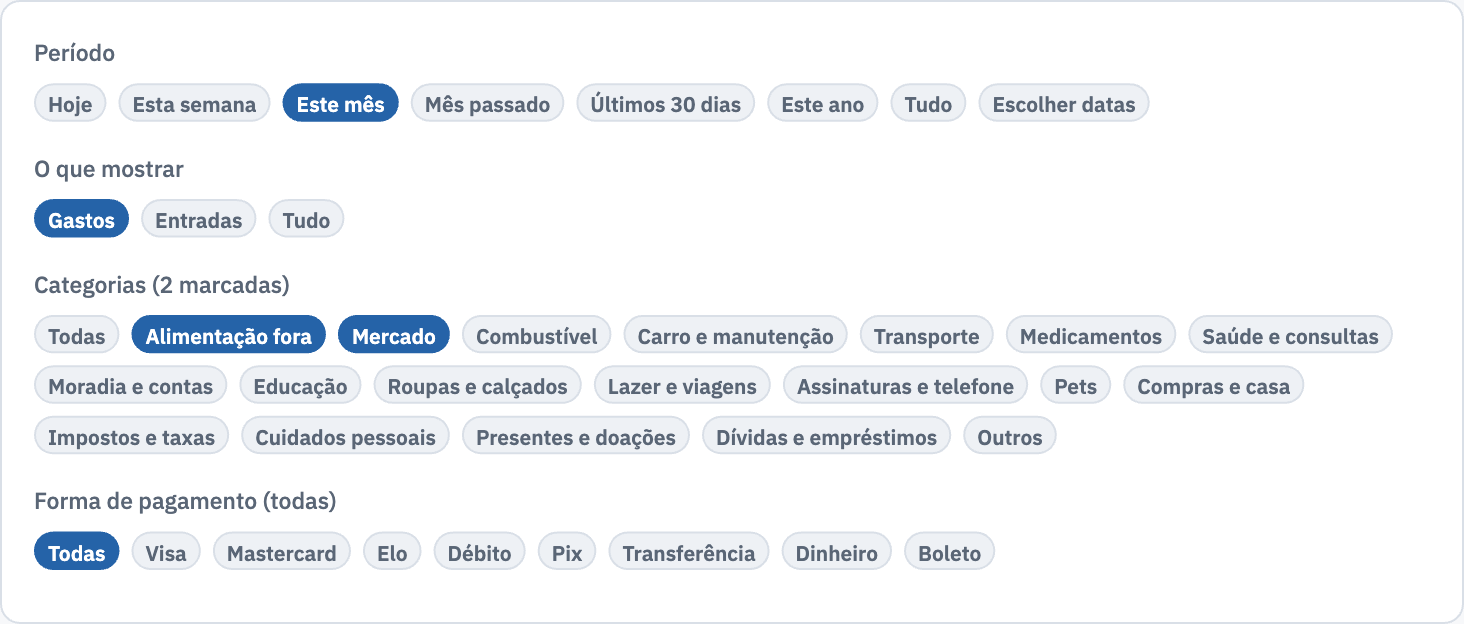
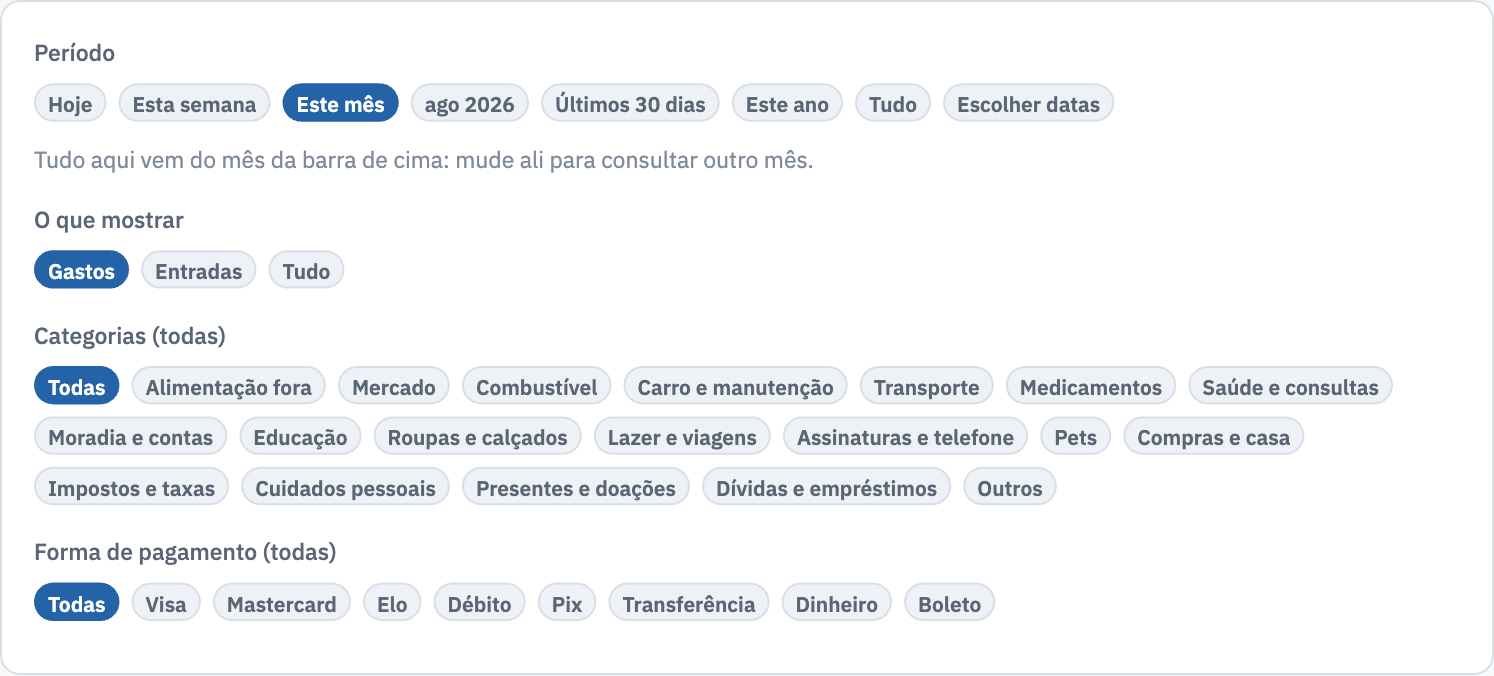
Consulta segue o mês da barra e categorias se reorganizam sem perder nada
A Consulta tirava hoje, esta semana e últimos 30 dias do dia real, mesmo
com outro mês na barra de cima. Agora todos os períodos saem de S.ym:
refDia() é hoje no mês corrente, o último dia num mês passado e o dia 1º
num mês futuro, e os botões mudam de nome para dizer isso.

Mexer nas categorias também ficou seguro: excluir uma categoria com uso
pergunta para onde levar os lançamentos, os gastos fixos e as palavras
aprendidas; divida e outros só podem ser renomeadas; e a Consulta ganhou
Mudar a categoria, que re-etiqueta de uma vez os lançamentos filtrados —
é assim que se divide uma categoria em duas ou três.

Ajuda (3 perguntas novas), manual (seção 20 e figuras novas) e README
atualizados junto.

Changed region(s): [[0.0, 0.0609, 0.9529, 0.7612], [0.0, 0.7917, 0.6762, 0.9439], [0.0307, 0.9744, 0.9836, 1.0]]

diff --git a/index.html b/index.html
@@ -2319,18 +2319,28 @@ function htmlImportacoes(){
 
 /* =================== consulta =================== */
 /* procurar gastos por categoria e período, com data e forma de pagamento em cada linha */
-const PERIODOS=[["hoje","Hoje"],["semana","Esta semana"],["mes","Este mês"],["anterior","Mês passado"],
-  ["30","Últimos 30 dias"],["ano","Este ano"],["tudo","Tudo"],["livre","Escolher datas"]];
+/* "mês" e "mês anterior" seguem o mês que está na barra de cima, como o resto do app */
+/* o dia de referência da Consulta é o mês da barra de cima: hoje, quando o mês é o atual;
+   o último dia do mês, quando é um mês passado; o dia 1º, quando é um mês futuro. */
+const refDia=()=>{ const hoje=todayISO(), atual=ymOf(hoje);
+  if(S.ym===atual) return hoje;
+  return S.ym>atual ? S.ym+"-01" : S.ym+"-"+pad(daysIn(S.ym)); };
+const rotuloPeriodos=()=>{ const hoje=todayISO(), atual=S.ym===ymOf(hoje), ref=diaMes(refDia());
+  return [["hoje",atual?"Hoje":"Dia "+ref],["semana",atual?"Esta semana":"Semana até "+ref],
+    ["mes",atual?"Este mês":ymLabel(S.ym)],["anterior",ymLabel(ymShift(S.ym,-1))],
+    ["30",atual?"Últimos 30 dias":"30 dias até "+ref],
+    ["ano",S.ym.slice(0,4)===hoje.slice(0,4)?"Este ano":S.ym.slice(0,4)],
+    ["tudo","Tudo"],["livre","Escolher datas"]]; };
 function periodoDatas(p){
-  const hoje=todayISO(), Y=+hoje.slice(0,4), M=+hoje.slice(5,7);
-  const dia=n=>new Date(Date.parse(hoje+"T12:00:00")+n*86400000).toISOString().slice(0,10);
-  if(p==="hoje") return [hoje,hoje];
-  if(p==="semana"){ const d=new Date(Date.parse(hoje+"T12:00:00")).getDay(); return [dia(-((d+6)%7)),hoje]; }
-  if(p==="mes") return [ymOf(hoje)+"-01", ymOf(hoje)+"-"+pad(daysIn(ymOf(hoje)))];
-  if(p==="anterior"){ const a=ymShift(ymOf(hoje),-1); return [a+"-01", a+"-"+pad(daysIn(a))]; }
-  if(p==="30") return [dia(-29),hoje];
-  if(p==="ano") return [Y+"-01-01", Y+"-12-31"];
-  if(p==="tudo") return ["2000-01-01", Y+"-12-31"];
+  const hoje=todayISO(), ref=refDia();
+  const dia=n=>new Date(Date.parse(ref+"T12:00:00")+n*86400000).toISOString().slice(0,10);
+  if(p==="hoje") return [ref,ref];
+  if(p==="semana"){ const d=new Date(Date.parse(ref+"T12:00:00")).getDay(); return [dia(-((d+6)%7)),ref]; }
+  if(p==="mes") return [S.ym+"-01", S.ym+"-"+pad(daysIn(S.ym))];
+  if(p==="anterior"){ const a=ymShift(S.ym,-1); return [a+"-01", a+"-"+pad(daysIn(a))]; }
+  if(p==="30") return [dia(-29),ref];
+  if(p==="ano"){ const a=S.ym.slice(0,4); return [a+"-01-01", a+"-12-31"]; }
+  if(p==="tudo") return ["2000-01-01", Math.max(+hoje.slice(0,4),+S.ym.slice(0,4))+"-12-31"];
   return null; }
 function consultaAchados(c){
   c=c||S.consulta;
@@ -2355,6 +2365,16 @@ function renderConsulta(){
   /* nada no período não quer dizer nada no app: diz onde estão os lançamentos que batem com os filtros */
   let dica="";
   if(!L.length){
+    /* o período pode ter movimento e o filtro é que não bate: mostra o que existe ali */
+    const semFiltro=consultaAchados(Object.assign({},c,{cats:[],formas:[]})).linhas;
+    if(semFiltro.length){
+      const cont={}; semFiltro.forEach(t=>{ cont[t.cat]=(cont[t.cat]||0)+t.v; });
+      const quais=Object.keys(cont).sort((a,b)=>cont[b]-cont[a]).slice(0,8)
+        .map(id=>'<button class="mini" data-so="'+id+'" style="margin:2px 4px 2px 0">'+esc(c.tipo==="e"?ecatName(id):catName(id))+' '+fmtN(cont[id])+'</button>').join("");
+      dica='<div class="note" style="margin-top:12px"><b>Nada com os filtros marcados</b>Mas de '+diaMesAno(r.de)+' a '+diaMesAno(r.ate)+
+        ' há '+semFiltro.length+(semFiltro.length>1?" lançamentos":" lançamento")+'. O que existe neste período: '+quais+
+        ' <button class="mini" data-so="" style="margin:2px 0">Ver todos</button></div>'; }
+    else {
     const noAno=consultaAchados(Object.assign({},c,{periodo:"ano"})).linhas.length;
     const emTudo=consultaAchados(Object.assign({},c,{periodo:"tudo"})).linhas.length;
     const quanto=noAno===emTudo
@@ -2365,7 +2385,7 @@ function renderConsulta(){
         '. Veja em outro período: '+
         (noAno?'<button class="mini" data-per="ano" style="margin-right:6px">Este ano</button>':'')+
         '<button class="mini" data-per="tudo">Tudo</button></div>'
-      : '<div class="note" style="margin-top:12px"><b>Nada encontrado</b>Não há lançamentos com esses filtros em nenhum período. Desmarque alguma categoria ou forma de pagamento.</div>'; }
+      : '<div class="note" style="margin-top:12px"><b>Nada encontrado</b>Não há lançamentos com esses filtros em nenhum período. Desmarque alguma categoria ou forma de pagamento.</div>'; } }
   const total=L.reduce((s,t)=>s+(t.k==="e"?-t.v:t.v),0);
   const soma={}, porForma={};
   L.forEach(t=>{ soma[t.cat]=(soma[t.cat]||0)+t.v; const f=t.card||t.method; porForma[f]=(porForma[f]||0)+t.v; });
@@ -2386,7 +2406,11 @@ function renderConsulta(){
   $("#p-consulta").innerHTML=
     '<div class="sec"><div class="card pad">'+
     '<div class="tile-l">Período</div>'+
-    '<div class="segs" style="margin-top:8px">'+PERIODOS.map(p=>selo(c.periodo===p[0],p[1],'data-per="'+p[0]+'"')).join("")+'</div>'+
+    '<div class="segs" style="margin-top:8px">'+rotuloPeriodos().map(p=>selo(c.periodo===p[0],p[1],'data-per="'+p[0]+'"')).join("")+'</div>'+
+    '<div class="say-hint" style="margin-top:6px">'+(S.ym===ymOf(todayISO())
+      ?'Tudo aqui vem do mês da barra de cima: mude ali para consultar outro mês.'
+      :'O mês da barra de cima é '+ymLabel(S.ym)+', então o dia de referência é '+diaMesAno(refDia())+
+       ' — a semana e os 30 dias terminam nele, e o ano é '+S.ym.slice(0,4)+'. Para um período qualquer, use Escolher datas.')+'</div>'+
     (c.periodo==="livre"?'<div class="two" style="margin-top:6px"><div class="set-f"><label for="cqDe">De</label><input id="cqDe" type="date" value="'+c.de+'"></div>'+
       '<div class="set-f"><label for="cqAte">Até</label><input id="cqAte" type="date" value="'+c.ate+'"></div></div>':'')+
     '<div class="tile-l" style="margin-top:14px">O que mostrar</div>'+
@@ -2407,7 +2431,8 @@ function renderConsulta(){
     '<div class="card pad"><div class="tile-l">Por forma de pagamento</div>'+
     (resumoForma?'<div style="margin-top:10px;display:grid;gap:7px;font-size:13px;color:var(--ink-2)">'+resumoForma+'</div>'
       :'<div class="tile-s">Nada no período.</div>')+
-    '<div class="cardbox-a" style="margin-top:14px"><button class="btn ghost sm" id="cqCopiar">Copiar para planilha</button></div>'+
+    '<div class="cardbox-a" style="margin-top:14px"><button class="btn ghost sm" id="cqCopiar">Copiar para planilha</button>'+
+    (L.length&&c.tipo!=="tudo"?'<button class="btn ghost sm" id="cqMover">Mudar a categoria</button>':'')+'</div>'+
     '</div></div></div>'+
 
     '<div class="sec"><div class="sec-h"><h2 class="sec-t">Lançamentos</h2><span class="day-t">'+(L.length?fmt(Math.abs(total)):"")+'</span></div>'+
@@ -2419,6 +2444,8 @@ function renderConsulta(){
   $$("[data-cat]").forEach(b=>b.onclick=()=>{ const id=b.dataset.cat;
     if(!id) c.cats=[]; else { const i=c.cats.indexOf(id); if(i>=0) c.cats.splice(i,1); else c.cats.push(id); }
     renderConsulta(); });
+  $$("[data-so]").forEach(b=>b.onclick=()=>{ const id=b.dataset.so;
+    c.formas=[]; c.cats=id?[id]:[]; renderConsulta(); });
   $$("[data-forma]").forEach(b=>b.onclick=()=>{ const id=b.dataset.forma;
     if(!id) c.formas=[]; else { const i=c.formas.indexOf(id); if(i>=0) c.formas.splice(i,1); else c.formas.push(id); }
     renderConsulta(); });
@@ -2428,7 +2455,8 @@ function renderConsulta(){
   $("#cqCopiar").onclick=()=>{
     const linhas=[["Data","Descrição","Categoria","Forma de pagamento","Valor"]].concat(
       L.map(t=>[t.d, t.desc, catLabel(t), cardName(t.card)||METODOS[t.method]||"", (t.k==="e"?"":"-")+(t.v/100).toFixed(2).replace(".",",")]));
-    copyText(linhas.map(l=>l.join(";")).join("\n"), L.length+" lançamentos copiados. Cole numa planilha."); }; }
+    copyText(linhas.map(l=>l.join(";")).join("\n"), L.length+" lançamentos copiados. Cole numa planilha."); };
+  const mv=$("#cqMover"); if(mv) mv.onclick=()=>openMoverLinhas(L,c.tipo); }
 
 /* =================== ajuda =================== */
 /* o app não tem IA embutida (não há servidor nem chave): a ajuda é busca no próprio conteúdo, e para
@@ -2538,7 +2566,15 @@ const AJUDA=[
  {g:"Entender os números",t:"O que a aba Análises mostra?",
   c:"O diagnóstico do mês (ritmo contra o teto, 50-30-20, renda comprometida, cartões perto do limite, gastos que parecem fixos), as compras parceladas, os gastos por cartão e o acompanhamento das dívidas.",a:"analises"},
  {g:"Entender os números",t:"A Consulta mostrou R$ 0,00",
-  c:"É porque não há lançamentos naquele período com os filtros marcados — por exemplo, a semana atual quando você ainda está carregando meses antigos. O próprio app avisa quantos lançamentos existem no ano e no total, e oferece o atalho para ver em Este ano ou Tudo.",a:"consulta"},
+  c:"É porque não há lançamentos naquele período com os filtros marcados. O app explica qual dos dois é o caso: se o período tem movimento e são as categorias que não batem, ele lista o que existe ali (com o valor de cada categoria) e você toca para ver; se o período está mesmo vazio, ele diz quantos lançamentos existem no ano e no total e oferece o atalho para Este ano ou Tudo.",a:"consulta"},
+ {g:"Entender os números",t:"A Consulta é de qual mês?",
+  c:"Do mês que estiver na barra de cima — o mesmo seletor que comanda o Painel e o Mês. Todos os períodos seguem esse mês: quando ele é o mês atual, hoje é hoje mesmo e a semana é a semana corrente; quando você volta para um mês passado, o dia de referência passa a ser o último dia daquele mês (em fev 2026, 28/02), e os botões mudam de nome para dizer isso — Dia 28/02, Semana até 28/02, 30 dias até 28/02. O ano também é o da barra. Para consultar outro mês, troque ali em cima; para um período que não começa nem termina em mês fechado, use Escolher datas.",a:"consulta"},
+ {g:"No dia a dia",t:"Quero reorganizar as categorias. Vou bagunçar o que já lancei?",
+  c:"Não. Por dentro, cada lançamento está amarrado à categoria por um código, não pelo nome — então renomear é seguro e vale para trás: tudo o que já estava ali passa a aparecer com o nome novo, inclusive nos meses fechados, nos gráficos e no 50-30-20. Criar categoria nova também não mexe em nada (ela nasce vazia). E ao excluir, o app não deixa nada solto: ele conta quantos lançamentos, gastos fixos e palavras aprendidas estão naquela categoria e pede para onde levar tudo, antes de tirá-la da lista. Duas não podem ser excluídas, só renomeadas: Dívidas e empréstimos (o app lança nela sozinho, nos consignados) e Outros (é a reserva de quando ele não sabe classificar).",a:"categorias"},
+ {g:"No dia a dia",t:"Como divido uma categoria em duas ou três?",
+  c:"Em Ajustes, em Categorias, crie as novas (por exemplo Farmácia e Consultas no lugar de Saúde). Vá na aba Consulta, marque só a categoria antiga, escolha o período — Tudo, se quiser desde o começo — e toque em Mudar a categoria: ele troca de uma vez os lançamentos que estão na lista, e só a categoria muda (valor, data e forma de pagamento ficam iguais). Repita com outro período ou outro filtro para a segunda parte; o que for caso a caso, toque na linha e mude ali. No fim, exclua a categoria antiga — se ainda tiver sobrado algo nela, o app pergunta para onde levar. Para juntar duas em uma, é o contrário: exclua uma e mande tudo para a outra.",a:"categorias"},
+ {g:"Dívidas",t:"Financiamento do carro é dívida ou gasto com carro?",
+  c:"A parcela do financiamento é dívida: cadastre em Lançar, em Cadastrar dívidas, com o valor da parcela, o total de parcelas, a taxa de juros e o mês em que começou. Assim ela entra sozinha todo mês, aparece em Análises e no Futuro como renda comprometida, e o app calcula a quitação antecipada com desconto de juros. Carro e manutenção é para o custo de andar com ele: revisão, pneus, IPVA, seguro, lavagem, oficina — e o combustível tem categoria própria. No 50-30-20, a parcela da dívida conta como Futuro (pagar dívida é formar patrimônio); a manutenção conta como Necessidade.",a:"dividas"},
  {g:"Entender os números",t:"Como vejo quanto gastei numa categoria?",
   c:"Na aba Consulta: escolha o período (hoje, semana, mês, mês passado, últimos 30 dias, ano, ou duas datas), marque as categorias e, se quiser, as formas de pagamento. Ele mostra o total, o valor por categoria e por forma de pagamento, e a lista com data, descrição e como foi pago. Dá para copiar tudo para uma planilha.",a:"consulta"},
  {g:"Entender os números",t:"Para que serve a aba Futuro?",
@@ -2774,6 +2810,58 @@ function openCard(id){
   const k=$("#cKill");
   if(k) k.onclick=()=>{ S.cfg.cards=S.cfg.cards.filter(x=>x.id!==c.id); saveCfg(); closeSheet(); render(); toast("Excluído"); }; }
 
+/* reorganizar categorias sem perder o que já foi lançado: quem manda é o id, não o nome.
+   Renomear não mexe em nada; excluir e dividir precisam levar os lançamentos para outro lugar. */
+function usosDaCategoria(id){
+  let n=0; const meses=[];
+  Object.keys(S.months||{}).forEach(ym=>{ const q=txOf(ym).filter(t=>t.cat===id).length; if(q){ n+=q; meses.push(ym); } });
+  meses.sort();
+  return {n, meses, fix:(S.cfg.fixed||[]).filter(f=>f.cat===id).length,
+    kw:Object.keys(S.cfg.kwCat||{}).filter(w=>S.cfg.kwCat[w]===id).length}; }
+async function moverLancamentos(L,para){
+  let n=0;
+  L.forEach(t=>{ const m=S.months[t.ym], x=m&&m.tx&&m.tx[t.id];
+    if(x&&x.cat!==para){ x.cat=para; x.u=Date.now(); n++; } });
+  if(n) await saveMonth();
+  return n; }
+async function moverCategoria(de,para){
+  const L=[]; Object.keys(S.months||{}).forEach(ym=>txOf(ym).forEach(t=>{ if(t.cat===de) L.push(t); }));
+  const n=await moverLancamentos(L,para);
+  (S.cfg.fixed||[]).forEach(f=>{ if(f.cat===de) f.cat=para; });
+  Object.keys(S.cfg.kwCat||{}).forEach(w=>{ if(S.cfg.kwCat[w]===de) S.cfg.kwCat[w]=para; });
+  await saveCfg();
+  return n; }
+/* sheet que troca a categoria de uma lista de lançamentos (usada na Consulta) */
+function openMoverLinhas(L,tipo){
+  if(!L.length){ toast("Nada para mudar."); return; }
+  const lista=(tipo==="e"?(S.cfg.ecats||ECATS):S.cfg.cats);
+  const quantos=L.length+(L.length>1?" lançamentos":" lançamento");
+  sheet("Mudar a categoria",
+    '<div class="set"><div class="note"><b>'+quantos+'</b>São os que estão na lista da Consulta agora, de '+diaMesAno(L[L.length-1].d)+' a '+diaMesAno(L[0].d)+
+    '. Só a categoria muda: valor, data e forma de pagamento ficam como estão.</div>'+
+    '<div class="set-f"><label for="mvC">Nova categoria</label><select id="mvC">'+
+    lista.map(x=>'<option value="'+x.id+'">'+esc(x.n)+'</option>').join("")+'</select>'+
+    '<span class="hint">Se a categoria nova ainda não existe, crie em Ajustes, em Categorias, e volte aqui.</span></div></div>',
+    '<button class="btn" id="mvOk">Mudar os '+L.length+'</button>');
+  $("#mvOk").onclick=async()=>{
+    const n=await moverLancamentos(L,$("#mvC").value);
+    closeSheet(); render(); toast(n?n+(n>1?" lançamentos mudaram de categoria.":" lançamento mudou de categoria."):"Já estavam nessa categoria."); }; }
+/* sheet que exclui uma categoria levando embora o que estava nela */
+function openApagarCat(c,u){
+  const destinos=S.cfg.cats.filter(x=>x.id!==c.id);
+  const detalhe=[u.n?u.n+(u.n>1?" lançamentos":" lançamento"):"", u.fix?u.fix+(u.fix>1?" gastos fixos":" gasto fixo"):"",
+    u.kw?u.kw+(u.kw>1?" palavras aprendidas":" palavra aprendida"):""].filter(Boolean).join(" · ");
+  sheet("Excluir "+c.n,
+    '<div class="set"><div class="note"><b>'+detalhe+'</b>'+
+    (u.meses.length?"De "+ymLabel(u.meses[0])+" a "+ymLabel(u.meses[u.meses.length-1])+". ":"")+
+    'Nada é apagado: tudo isso passa para a categoria que você escolher aqui, e só depois a categoria '+esc(c.n)+' sai da lista.</div>'+
+    '<div class="set-f"><label for="kMv">Levar tudo para</label><select id="kMv">'+
+    destinos.map(x=>'<option value="'+x.id+'">'+esc(x.n)+'</option>').join("")+'</select></div></div>',
+    '<button class="btn danger" id="kMvOk">Mover e excluir</button>');
+  $("#kMvOk").onclick=async()=>{
+    const para=$("#kMv").value, n=await moverCategoria(c.id,para);
+    S.cfg.cats=S.cfg.cats.filter(x=>x.id!==c.id); await saveCfg();
+    closeSheet(); render(); toast(n?n+(n>1?" lançamentos foram para ":" lançamento foi para ")+catName(para)+".":"Categoria excluída."); }; }
 function openCat(id){
   const c=S.cfg.cats.find(x=>x.id===id)||{id:"c"+uid(),n:"",limit:0};
   const isNew=!S.cfg.cats.some(x=>x.id===c.id);
@@ -2790,6 +2878,10 @@ function openCat(id){
     saveCfg(); closeSheet(); render(); toast("Salvo"); };
   const k=$("#kKill");
   if(k) k.onclick=()=>{ if(S.cfg.cats.length<=2){ toast("Precisa de pelo menos duas categorias."); return; }
+    if(c.id==="divida"){ toast("Esta é a categoria das dívidas e consignados: o app lança nela sozinho. Dá para renomear, não para excluir."); return; }
+    if(c.id==="outros"){ toast("Outros é a categoria de reserva: cai aqui o que o app não consegue classificar. Dá para renomear, não para excluir."); return; }
+    const u=usosDaCategoria(c.id);
+    if(u.n||u.fix||u.kw){ openApagarCat(c,u); return; }
     S.cfg.cats=S.cfg.cats.filter(x=>x.id!==c.id); saveCfg(); closeSheet(); render(); toast("Excluída"); }; }
 
 function openEcat(id){

diff --git a/manual.html b/manual.html
@@ -97,7 +97,7 @@ td.valor{font-family:var(--f-m);text-align:right;white-space:nowrap}
   <div class="sub">Manual de uso — controle de gastos por fala, extrato e fatura</div>
   <div class="meta">
     Endereço do app: https://rgbittencourt.github.io/caderneta/<br>
-    Setembro de 2026 · aplica-se à versão caderneta-v39 em diante
+    Setembro de 2026 · aplica-se à versão caderneta-v47 em diante
   </div>
 </header>
 
@@ -123,6 +123,7 @@ td.valor{font-family:var(--f-m);text-align:right;white-space:nowrap}
     <li><a href="#futuro">Futuro e Meta</a></li>
     <li><a href="#analises">Análises</a></li>
     <li><a href="#consulta">Consulta</a></li>
+    <li><a href="#categorias">Categorias: renomear e dividir</a></li>
     <li><a href="#carregar">Carregar meses anteriores</a></li>
     <li><a href="#problemas">Quando algo não bate</a></li>
     <li><a href="#dados">Dados, backup e privacidade</a></li>
@@ -487,13 +488,23 @@ td.valor{font-family:var(--f-m);text-align:right;white-space:nowrap}
 </figure>
 
 <div class="dica">
+  <b>O mês é o da barra de cima.</b>
+  A Consulta usa o mesmo seletor de mês que comanda o Painel e o Mês, e <b>todos</b> os períodos saem dele. Com o mês atual na barra, os botões são os de sempre: <i>Hoje</i>, <i>Esta semana</i>, <i>Este mês</i>, o mês anterior, <i>Últimos 30 dias</i>, <i>Este ano</i>. Quando você volta para um mês passado, o dia de referência passa a ser o último dia daquele mês e os botões mudam de nome para avisar — em fev 2026 eles ficam <i>Dia 28/02</i>, <i>Semana até 28/02</i>, <i>fev 2026</i>, <i>jan 2026</i>, <i>30 dias até 28/02</i> —, e o ano também é o da barra. Uma linha abaixo dos botões repete qual é o dia de referência. Para consultar outro mês, troque ali em cima; para um pedaço de mês ou um período que atravessa meses, use <i>Escolher datas</i>.
+</div>
+
+<figure>
+  <img src="manual/consulta-mes-barra.png" alt="A Consulta com um mês passado na barra">
+  <figcaption>Com <b>fev 2026</b> na barra de cima, os botões passam a <i>Dia 28/02</i>, <i>Semana até 28/02</i> e <i>30 dias até 28/02</i>, e a linha abaixo deles avisa qual é o dia de referência.</figcaption>
+</figure>
+
+<div class="dica">
   <b>Apareceu R$ 0,00?</b>
-  Quer dizer que não há lançamentos naquele período com os filtros marcados — é o que acontece na semana atual enquanto você ainda está carregando meses antigos. O app diz quantos lançamentos existem no ano e no total, e oferece o atalho para <i>Este ano</i> ou <i>Tudo</i>.
+  Não há lançamentos naquele período com os filtros marcados — e o app explica qual dos dois casos é. Se o período tem movimento e são as categorias que não batem, ele lista o que existe ali com o valor de cada categoria: toque numa delas, ou em <i>Ver todos</i>, para ver. Se o período está mesmo vazio (a semana atual enquanto você ainda carrega meses antigos, por exemplo), ele diz quantos lançamentos existem no ano e no total, e oferece o atalho para <i>Este ano</i> ou <i>Tudo</i>.
 </div>
 
 <figure>
   <img src="manual/consulta-resumo.png" alt="Resumo da consulta">
-  <figcaption>O total do período, quantos lançamentos são, o valor de cada categoria e o total por forma de pagamento. <i>Copiar para planilha</i> leva tudo — data, descrição, categoria, forma de pagamento e valor — para colar no Excel ou no Google Planilhas.</figcaption>
+  <figcaption>O total do período, quantos lançamentos são, o valor de cada categoria e o total por forma de pagamento. <i>Copiar para planilha</i> leva tudo — data, descrição, categoria, forma de pagamento e valor — para colar no Excel ou no Google Planilhas; <i>Mudar a categoria</i> troca de uma vez a categoria de todos os lançamentos que estão na lista (veja a seção seguinte).</figcaption>
 </figure>
 
 <figure>
@@ -501,7 +512,54 @@ td.valor{font-family:var(--f-m);text-align:right;white-space:nowrap}
   <figcaption>Cada linha traz a data, a descrição, a categoria, a forma de pagamento e o valor; as parcelas mostram o número da parcela, e a compra no crédito vem marcada. Tocando na linha, dá para corrigir o lançamento.</figcaption>
 </figure>
 
-<h2 id="carregar">20. Carregar meses anteriores</h2>
+<h2 id="categorias">20. Categorias: renomear, dividir, juntar</h2>
+
+<p>As categorias são suas: Ajustes → <b>Categorias de gasto</b> (e <b>Categorias de entrada</b>). Tocando em uma delas, dá para mudar o <b>nome</b>, o <b>limite por mês</b> e o <b>grupo no 50-30-20</b> (Necessidade, Desejo ou Futuro). O botão <i>Adicionar</i> cria quantas você quiser.</p>
+
+<figure>
+  <img src="manual/cat-lista.png" alt="Categorias de gasto em Ajustes">
+  <figcaption>A lista de categorias em Ajustes. Abaixo do nome, o grupo no 50-30-20 e o limite mensal, quando há um. Tocando na linha, abre a ficha da categoria; <i>Adicionar</i> cria uma nova.</figcaption>
+</figure>
+
+<div class="nota">
+  <b>Mexer nas categorias não desarruma o que já foi lançado.</b>
+  Por dentro, cada lançamento está amarrado à categoria por um <b>código</b>, não pelo nome. Por isso:
+  <ul>
+    <li><b>Renomear é seguro e vale para trás.</b> Tudo o que já estava na categoria passa a aparecer com o nome novo — nos meses fechados, nos gráficos do Painel, no 50-30-20 e na Consulta.</li>
+    <li><b>Criar categoria nova não mexe em nada.</b> Ela nasce vazia; os lançamentos antigos continuam onde estavam até você movê-los.</li>
+    <li><b>Excluir nunca deixa lançamento solto.</b> O app conta quantos lançamentos, gastos fixos e palavras aprendidas estão ali, mostra de que mês a que mês, e pede <b>para onde levar tudo</b>. Só depois a categoria sai da lista.</li>
+    <li><b>Duas categorias não podem ser excluídas, só renomeadas:</b> <i>Dívidas e empréstimos</i> (é nela que o app lança sozinho as parcelas de consignado e de dívidas) e <i>Outros</i> (é a reserva de quando ele não consegue classificar).</li>
+  </ul>
+</div>
+
+<figure>
+  <img src="manual/cat-excluir.png" alt="Excluir uma categoria que tem lançamentos">
+  <figcaption>Ao excluir uma categoria que tem uso, o app mostra o que está nela — lançamentos, gastos fixos, palavras aprendidas — e de que mês a que mês, e pede para onde levar tudo. Nada é apagado.</figcaption>
+</figure>
+
+<p><b>Para dividir uma categoria em duas ou três</b> — por exemplo trocar <i>Saúde e consultas</i> por <i>Farmácia</i> e <i>Consultas</i>:</p>
+
+<ol class="passos">
+  <li><b>Crie as novas</b> em Ajustes → Categorias de gasto → <i>Adicionar</i>, já com o grupo do 50-30-20 e o limite, se quiser.</li>
+  <li><b>Vá na aba Consulta</b>, marque <b>só a categoria antiga</b> e escolha o período — <i>Tudo</i>, se quiser desde o começo.</li>
+  <li><b>Toque em <i>Mudar a categoria</i></b> e escolha o destino. Ele troca de uma vez os lançamentos que estão na lista; valor, data e forma de pagamento ficam exatamente como estavam.</li>
+  <li><b>Repita</b> com outro período ou outro filtro (por forma de pagamento, por exemplo) para a segunda parte. O que for caso a caso, toque na linha e mude ali mesmo.</li>
+  <li><b>Exclua a categoria antiga.</b> Se ainda tiver sobrado algo nela, o app pergunta para onde levar.</li>
+</ol>
+
+<figure>
+  <img src="manual/consulta-mudar.png" alt="Mudar a categoria dos lançamentos filtrados">
+  <figcaption><i>Mudar a categoria</i>, na Consulta, age exatamente sobre os lançamentos que estão na lista — os do período e dos filtros marcados. Só a categoria muda.</figcaption>
+</figure>
+
+<p><b>Para juntar duas em uma</b>, é o caminho inverso: exclua uma delas e mande tudo para a outra.</p>
+
+<div class="dica">
+  <b>Dívida ou gasto do mês?</b>
+  <b>Financiamento de veículo, consignado, empréstimo, crediário longo:</b> a parcela é <b>dívida</b> — cadastre em Lançar → <i>Cadastrar dívidas</i>, com valor da parcela, total de parcelas, taxa e o mês em que começou. Ela entra sozinha todo mês, aparece no Futuro como renda comprometida e permite a simulação de quitação com desconto de juros. <b>Carro e manutenção</b> é o custo de andar com o carro: revisão, pneus, IPVA, seguro, oficina, lavagem — o combustível tem categoria própria. No 50-30-20, a parcela da dívida conta como <b>Futuro</b> (pagar dívida é formar patrimônio) e a manutenção como <b>Necessidade</b>.
+</div>
+
+<h2 id="carregar">21. Carregar meses anteriores</h2>
 
 <ol class="passos">
   <li><b>Comece do zero, se for o caso:</b> Ajustes → <i>Recomeçar os lançamentos</i>. O app guarda um backup no seu Drive antes de apagar e pergunta a data do primeiro extrato e o saldo de cada conta no dia anterior.</li>
@@ -534,7 +592,7 @@ td.valor{font-family:var(--f-m);text-align:right;white-space:nowrap}
   As compras que vêm da fatura não tiram dinheiro da conta, e o pagamento que vem do extrato não conta como gasto. É por isso que a ordem não estraga nada.
 </div>
 
-<h2 id="problemas">21. Quando algo não bate</h2>
+<h2 id="problemas">22. Quando algo não bate</h2>
 
 <table>
   <tr><th>Sintoma</th><th>O que olhar</th></tr>
@@ -547,7 +605,7 @@ td.valor{font-family:var(--f-m);text-align:right;white-space:nowrap}
   <tr><td>Não vejo uma opção nova</td><td>Confira a versão em <b>Ajustes → Dados</b>, feche o app e abra de novo.</td></tr>
 </table>
 
-<h2 id="dados">22. Dados, backup e privacidade</h2>
+<h2 id="dados">23. Dados, backup e privacidade</h2>
 <ul>
   <li>Os dados ficam <b>no aparelho</b> e no <b>seu Google Drive</b>, numa pasta chamada Caderneta. Não existe servidor: ninguém mais tem acesso.</li>
   <li>Os documentos que você lê (PDF, foto) <b>não saem do aparelho</b> — a leitura acontece ali mesmo.</li>
@@ -556,7 +614,7 @@ td.valor{font-family:var(--f-m);text-align:right;white-space:nowrap}
   <li>O acesso ao Drive dura cerca de uma hora; depois aparece <i>Sincronizar</i> no alto — um toque e pronto.</li>
 </ul>
 
-<h2 id="ajuda">23. Ajuda dentro do app</h2>
+<h2 id="ajuda">24. Ajuda dentro do app</h2>
 
 <p>A <b>Ajuda</b> é a última aba do app (no celular, dentro de <i>Mais</i>). Ali ficam 40 perguntas e respostas, agrupadas por tema, e o atalho para este manual.</p>
 
@@ -572,7 +630,7 @@ td.valor{font-family:var(--f-m);text-align:right;white-space:nowrap}
 
 <p>O botão <b>Perguntar ao Claude</b> copia a sua pergunta e abre a conversa. O app não tem inteligência artificial embutida: ele funciona sem servidor e sem custo, e é na conversa com o Claude que dúvidas mais longas são respondidas — e é lá também que se pedem mudanças no app.</p>
 
-<h2 id="glossario">24. Glossário</h2>
+<h2 id="glossario">25. Glossário</h2>
 <table>
   <tr><th>Termo</th><th>O que quer dizer na Caderneta</th></tr>
   <tr><td><b>Fatura de um mês</b></td><td>A fatura que <b>fechou</b> naquele mês, mesmo que seja paga no mês seguinte.</td></tr>

diff --git a/sw.js b/sw.js
@@ -1,6 +1,6 @@
 /* Caderneta — service worker: guarda o app no aparelho para abrir sem internet.
    Mude VERSAO a cada publicação para os aparelhos pegarem a versão nova. */
-const VERSAO = "caderneta-v46";
+const VERSAO = "caderneta-v47";
 const FONTES = "caderneta-fontes";
 const LIBS = "caderneta-libs-2";
 const APP = ["./", "./index.html", "./manifest.webmanifest", "./config.js",

diff --git a/CLAUDE.md b/CLAUDE.md
@@ -176,7 +176,11 @@ Cada achado tem gravidade (crítico, atenção, informação, boa notícia), um 
 - Fontes: IBM Plex Sans (interface) e IBM Plex Mono (valores).
 - Celular: abas embaixo; Futuro, Meta, Análises e Ajustes ficam em *Mais*. A partir de 960px: menu lateral.
 - **Datas do cartão vêm da fatura:** o leitor guarda `fechada`, `vencimento` (a primeira data cheia do resumo), `proxFechamento` ("Fechamento da próxima fatura") e `melhorCompra` ("Melhor data de compra"). Ao importar, a fatura mais recente já lida (`c.fatLida`) atualiza `closing`, `due`, `proxFecha` e `melhorDia` do cartão — o BB muda o dia a cada mês (fechou 06/01 e 04/02 nas faturas reais do dono). `prazoCartao` usa `proxFecha` enquanto ela não passa; depois, estima pelo dia.
-- **Consulta** (aba própria, pedido do dono em 26/09/2026): `renderConsulta` + `consultaAchados` + `periodoDatas`. Filtros em `S.consulta` (período pronto ou datas livres, tipo gasto/entrada/tudo, categorias e formas de pagamento marcadas, várias de cada). Mostra total, resumo por categoria e por forma de pagamento, e a lista com data, descrição, categoria e forma; *Copiar para planilha* gera CSV com ponto e vírgula. Período vazio não mostra só zero: diz quantos lançamentos batem com os filtros no ano e no total, com atalho para ampliar o período.
+- **Consulta** (aba própria, pedido do dono em 26/09/2026): `renderConsulta` + `consultaAchados` + `periodoDatas` + `refDia` + `rotuloPeriodos`. Filtros em `S.consulta` (período pronto ou datas livres, tipo gasto/entrada/tudo, categorias e formas de pagamento marcadas, várias de cada). Mostra total, resumo por categoria e por forma de pagamento, e a lista com data, descrição, categoria e forma; *Copiar para planilha* gera CSV com ponto e vírgula.
+  - **O mês da barra de cima manda em tudo** (27/09/2026, depois de "Mas desde 01/09 tem.... e não calculou..." e "A mesma coisa para semana.... tudo"): `refDia()` é hoje quando `S.ym` é o mês corrente, o último dia do mês quando é um mês passado e o dia 1º quando é um mês futuro. Dia, semana e 30 dias terminam nele; mês, mês anterior e ano saem de `S.ym`. Os rótulos mudam junto (*Dia 28/02*, *Semana até 28/02*, *30 dias até 28/02*) e uma linha abaixo dos botões diz qual é o dia de referência.
+  - **Período vazio não mostra só zero:** se o período tem movimento e são os filtros que não batem, lista as categorias que existem ali com valor (chips `data-so`) e *Ver todos*; se o período está mesmo vazio, diz quantos lançamentos batem com os filtros no ano e no total, com atalho para ampliar.
+  - ***Mudar a categoria*** (`openMoverLinhas`): troca a categoria de todos os lançamentos que estão na lista (período + filtros). Não aparece com o tipo *Tudo*, porque ali gasto e entrada se misturam.
+- **Reorganizar categorias sem perder lançamentos** (27/09/2026, pergunta do dono: "vou bagunçar o que já cadastrei?"): o vínculo é pelo `id`, então **renomear é seguro e retroativo**. `usosDaCategoria(id)` conta lançamentos (com o intervalo de meses), gastos fixos e palavras aprendidas; `moverCategoria(de,para)` re-etiqueta tudo isso; `openApagarCat` é a folha que pede o destino antes de excluir. `divida` e `outros` só podem ser renomeadas — a primeira porque `consVirtuais`/`fixedFor` lançam nela sozinhas, a segunda porque é o destino de `guessCat` quando não há palpite.
 - **Melhor cartão para comprar hoje (pedido do dono, 25/09/2026):** `prazoCartao` + `melhoresCartoes` + `htmlMelhorCartao`, no Painel (depois dos saldos) e no alto de Lançar. A compra de hoje entra na fatura que ainda vai fechar (`closing`; se o dia já passou, a do mês seguinte) e essa fatura vence no `due` — no mês seguinte ao fechamento quando `due <= closing`. Ordena pelo maior prazo em dias; cartão sem limite livre cai para o fim; sem `closing`/`due`, pede o cadastro.
 - **Painel, logo no topo (pedido do dono, 25/09/2026):** `htmlBancoCartoes` — *No banco hoje* (soma das contas, com a carteira à parte e uma linha por conta) e *Lançado nos cartões* (a fatura do mês de cada cartão, com o que está em aberto e o limite livre). Tocar numa linha abre o extrato daquela conta ou cartão na aba Contas.
 - **Cadastrar dívida fica em Lançar**, no fim, junto com as importações (`htmlDividasLancar`): é coisa que se faz uma vez por dívida. O acompanhamento (saldo, juros, simulação) continua em Análises.
@@ -209,7 +213,7 @@ Primeira publicação num computador novo: o dono autoriza no navegador (Git Cre
 
 ## Situação e próximos passos
 
-- **Publicado:** `caderneta-v46` (27/09/2026). O que existe está descrito acima; os commits contam a ordem.
+- **Publicado:** `caderneta-v47` (27/09/2026). O que existe está descrito acima; os commits contam a ordem.
 - **O que o dono está fazendo:** carregando os extratos da conta corrente e as faturas dos cartões (Visa, Mastercard, Elo) de janeiro a setembro de 2026, todos em PDF, no MacBook Air, depois de usar *Recomeçar do zero*. O passo a passo está no README, em *Importar meses anteriores*.
 - **Documentos reais (15/09/2026):** o dono mandou, por iniciativa própria, o extrato da conta corrente do BB de jan/2026 e uma fatura Ourocard Mastercard. Até a v14 o extrato vinha com descrições erradas (lote e documento no lugar do nome) e o Rende Fácil contado como gasto e entrada; a fatura lia taxas de juros como compras. Os formatos estão descritos acima e foram conferidos com os dois PDFs, que **não** estão no repositório. A fatura recebida só tinha anuidade e desconto; compras parceladas no formato do BB foram testadas com linhas simuladas. Se outro documento falhar, peça a *amostra sem dados*.
 - **Consignados:** ele tem dois — um pagando a 4ª de 12 em setembro de 2026, outro com a 1ª parcela em 01/10/2026. Depois do Recomeçar, precisam ser cadastrados de novo, com a data real do empréstimo e 0 já descontadas, antes de importar janeiro.

diff --git a/README.md b/README.md
@@ -78,7 +78,9 @@ Teve aumento ou correção? Mude o valor em Ajustes: o app pergunta a partir de 
 
 **Painel:** a primeira coisa que aparece é quanto você tem no banco, conta por conta, e quanto já está lançado na fatura de cada cartão de crédito, com o que está em aberto e o limite livre. Tocando numa linha, você vai direto para o extrato daquela conta ou cartão.
 
-**Consulta** (aba própria): escolha o período — hoje, semana, mês, mês passado, últimos 30 dias, ano ou duas datas —, marque categorias e formas de pagamento, e veja o total, o resumo por categoria e por forma, e a lista com data, descrição e como foi pago. Dá para copiar para uma planilha.
+**Consulta** (aba própria): escolha o período — hoje, semana, mês, mês passado, últimos 30 dias, ano ou duas datas —, marque categorias e formas de pagamento, e veja o total, o resumo por categoria e por forma, e a lista com data, descrição e como foi pago. Todos os períodos seguem o mês da barra de cima: num mês passado, o dia de referência é o último dia dele e os botões dizem isso (*Dia 28/02*, *Semana até 28/02*). Dá para copiar para uma planilha e para *Mudar a categoria* de todos os lançamentos da lista de uma vez.
+
+**Categorias:** renomear é seguro e vale para trás (o vínculo é interno, não pelo nome); excluir pergunta para onde levar os lançamentos, os gastos fixos e as palavras aprendidas que estavam ali. Para dividir uma categoria em duas, crie as novas, filtre a antiga na Consulta e use *Mudar a categoria*.
 
 **Método 50-30-20** (aba Meta): divide a renda líquida em Necessidades, Desejos e Futuro. A rosca mostra a meta (anel de fora) e para onde a renda foi (anel de dentro); abaixo, o que tem em cada grupo. Os percentuais e o grupo de cada categoria são ajustáveis.
 
